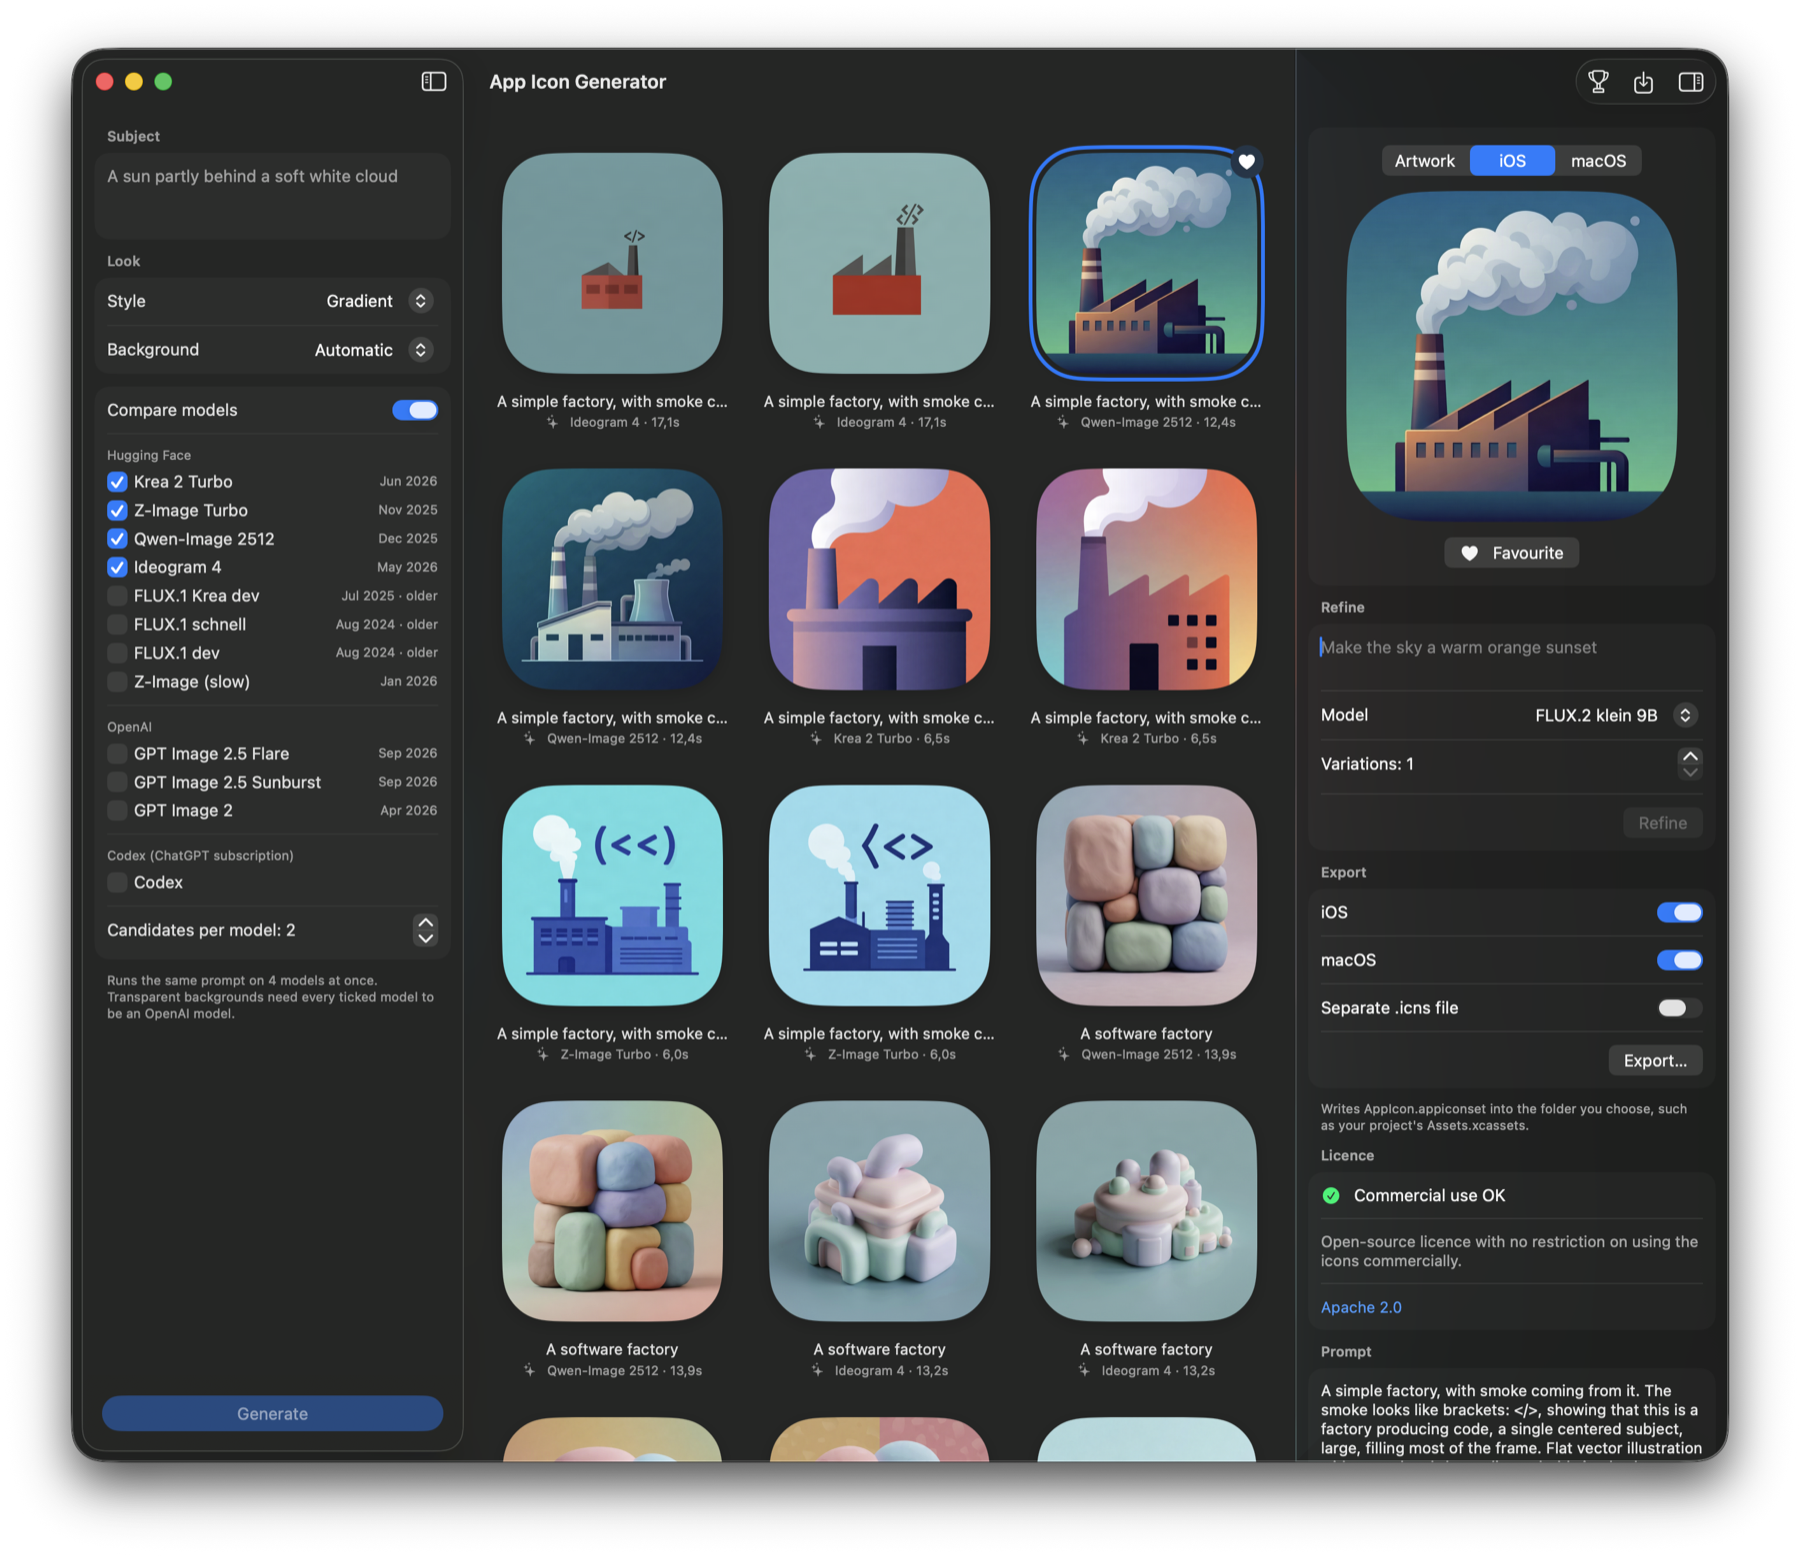
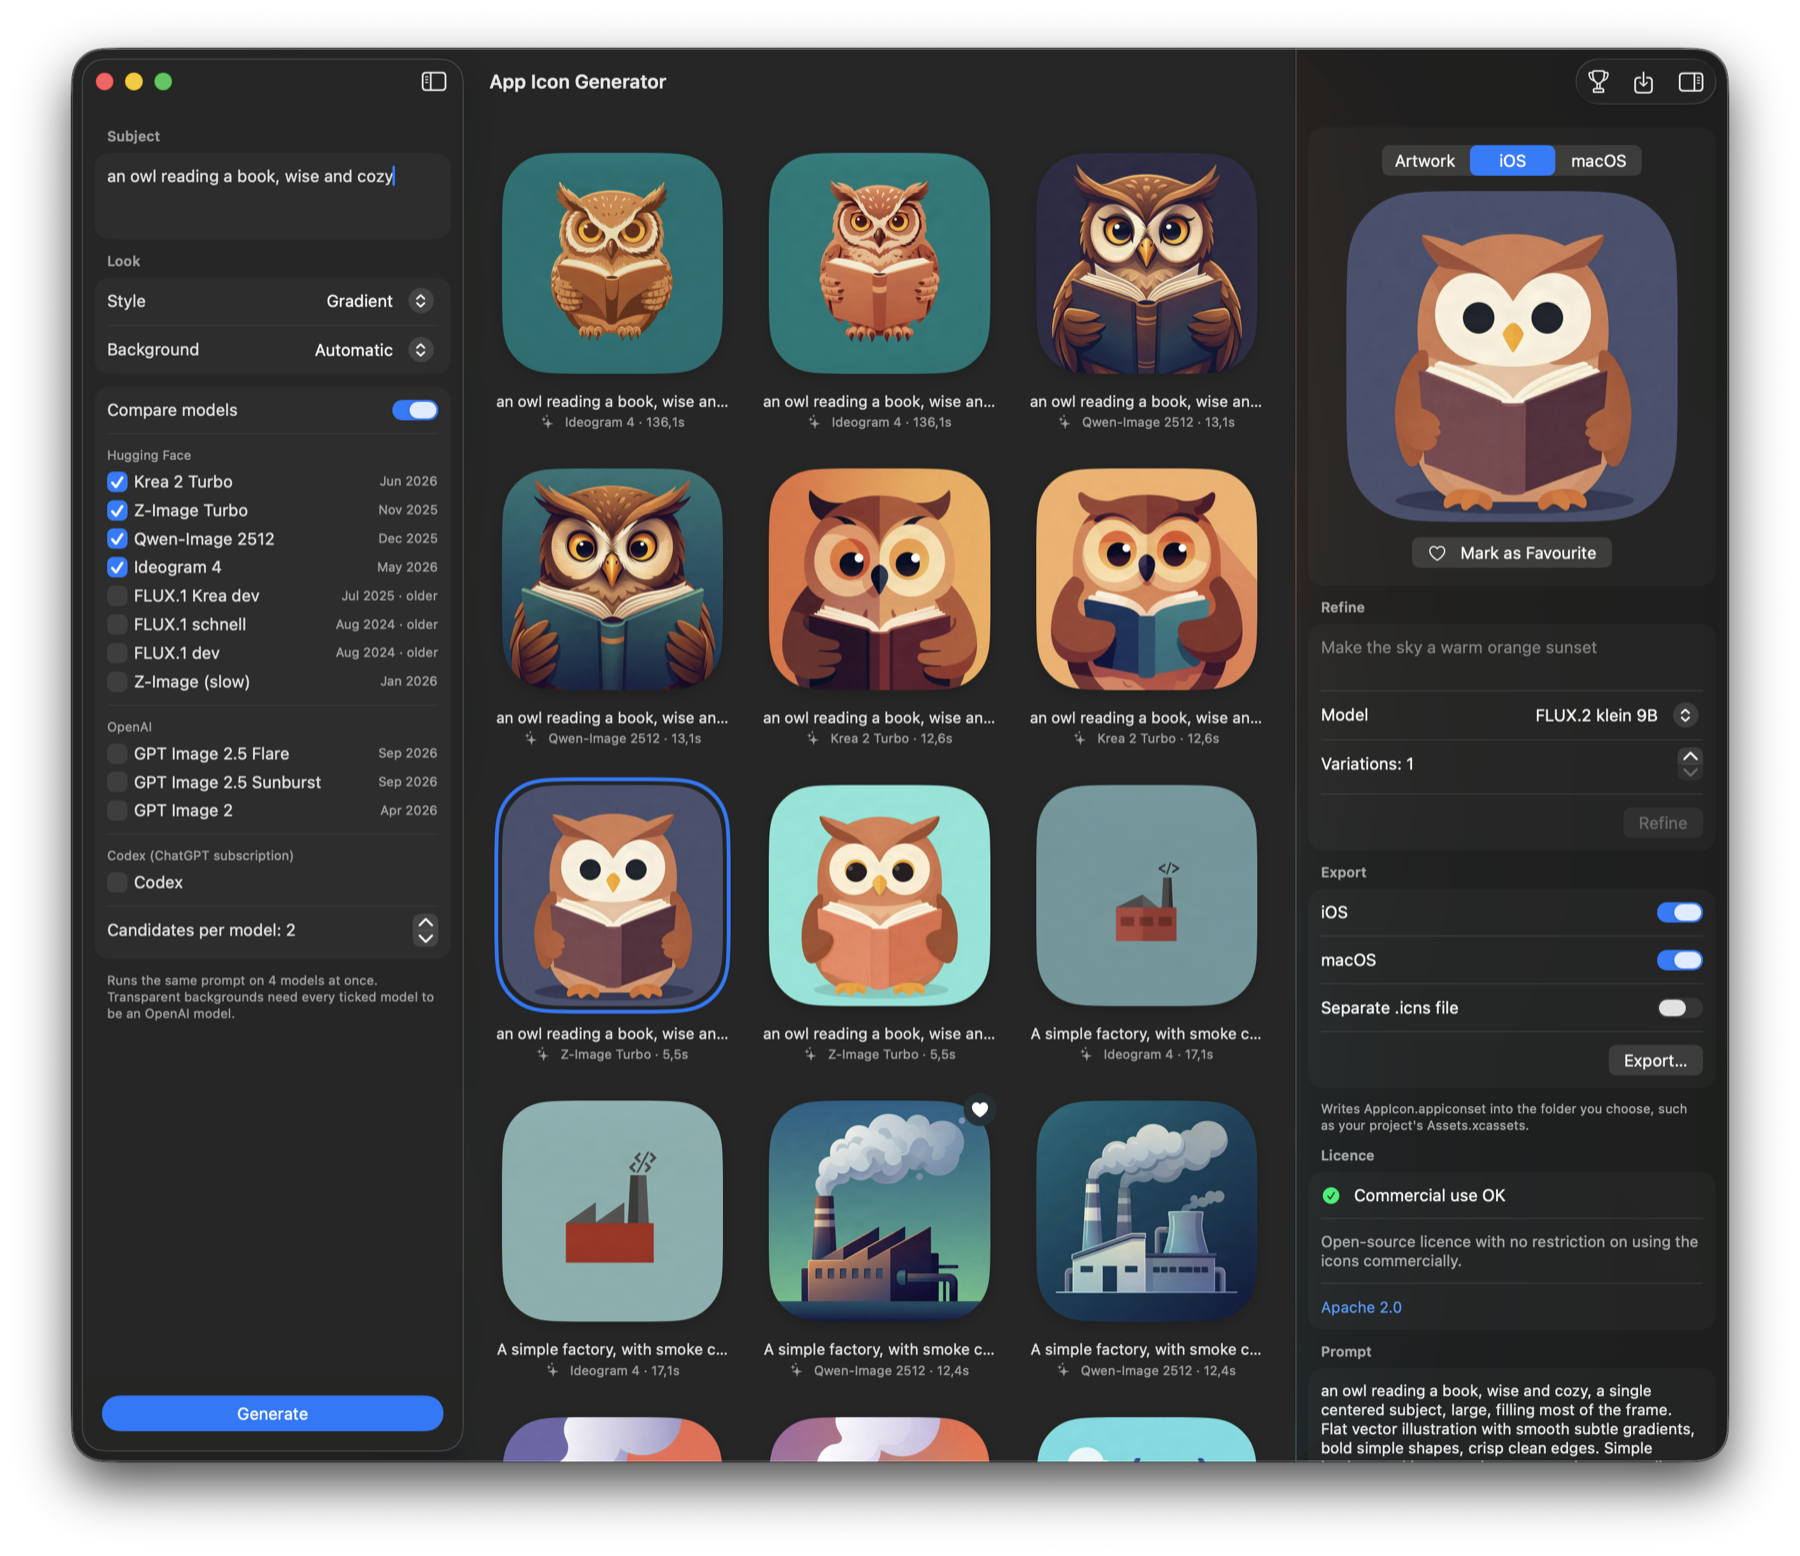
Show the owl comparison in the README screenshot

diff --git a/README.md b/README.md
@@ -2,7 +2,7 @@
 
 A macOS app and command-line tool that generates app icon artwork with image models, lets you refine it, and exports it in the formats Xcode and macOS expect.
 
-![The app comparing four models on the same prompt, with the favourite candidate selected](docs/screenshot.png)
+![The app after running one prompt, an owl reading a book, on four models at once](docs/screenshot.png)
 
 - **Generate** from a short subject description and a style preset.
 - **Compare** the same prompt across several models at once.
